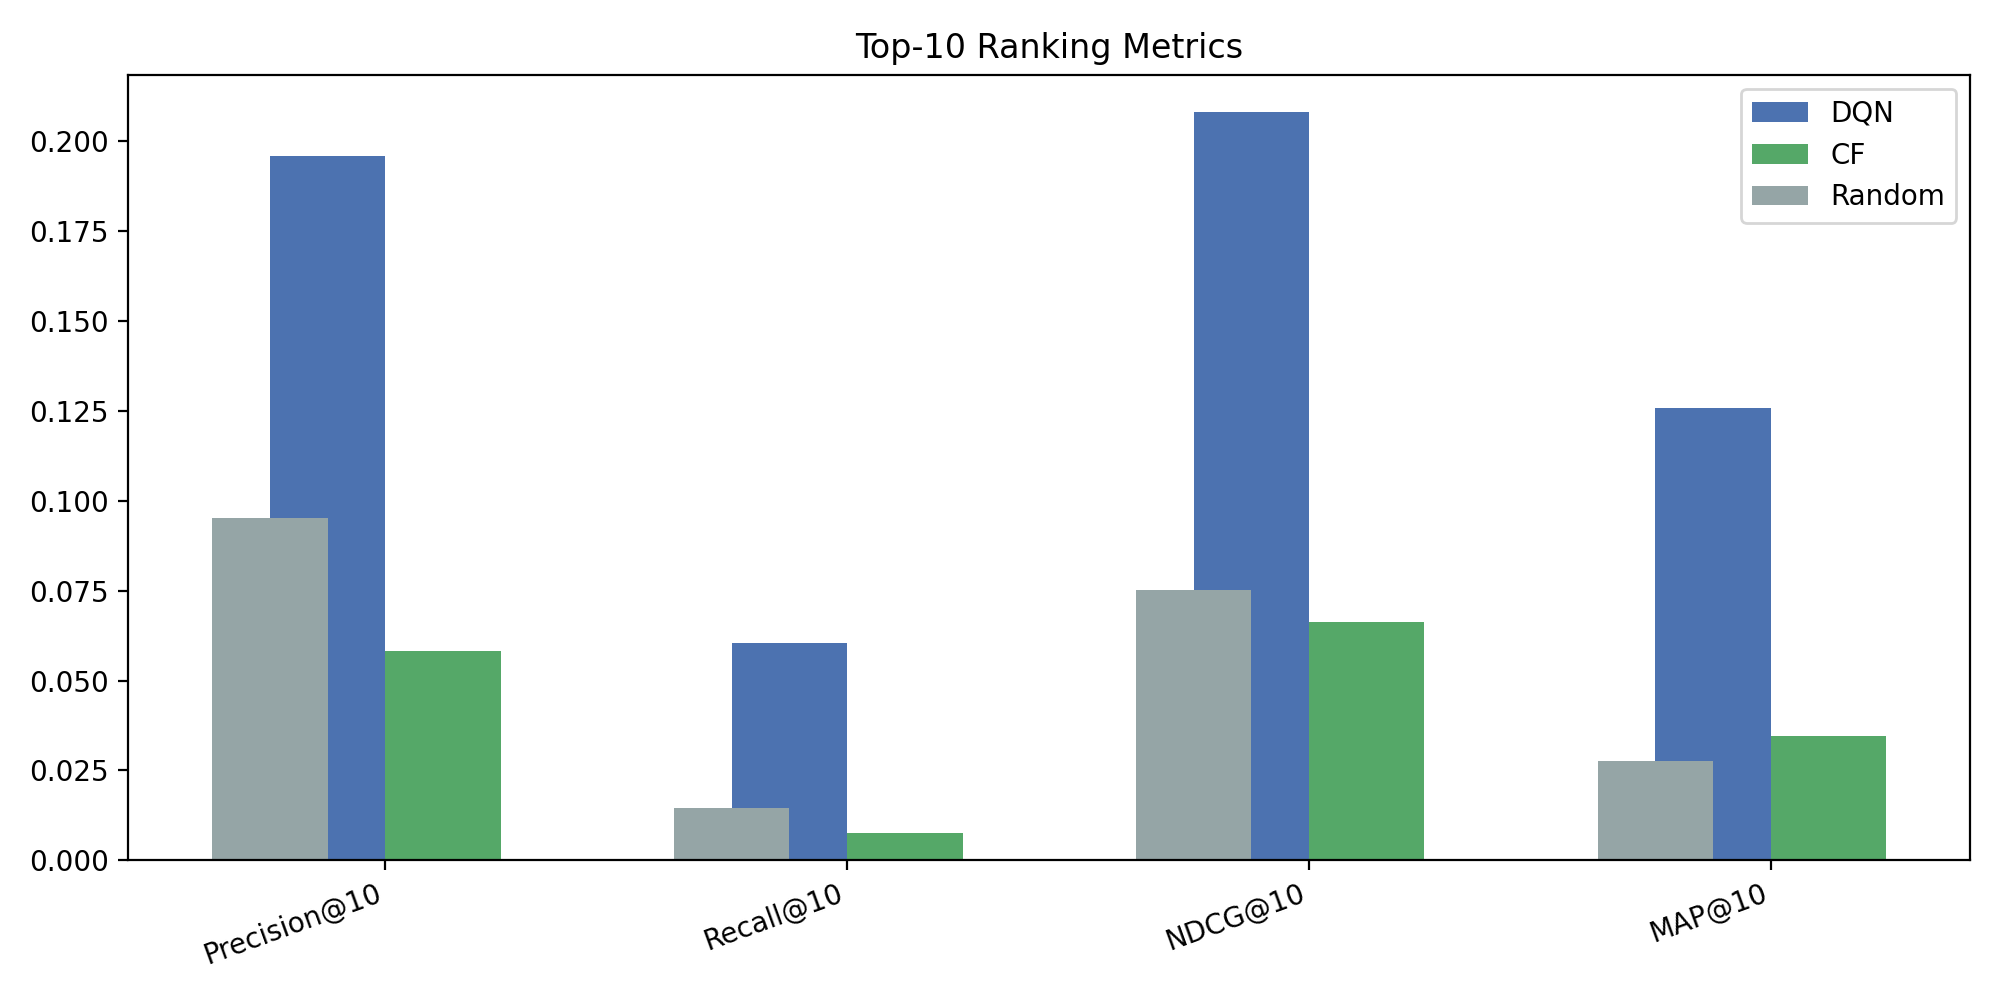
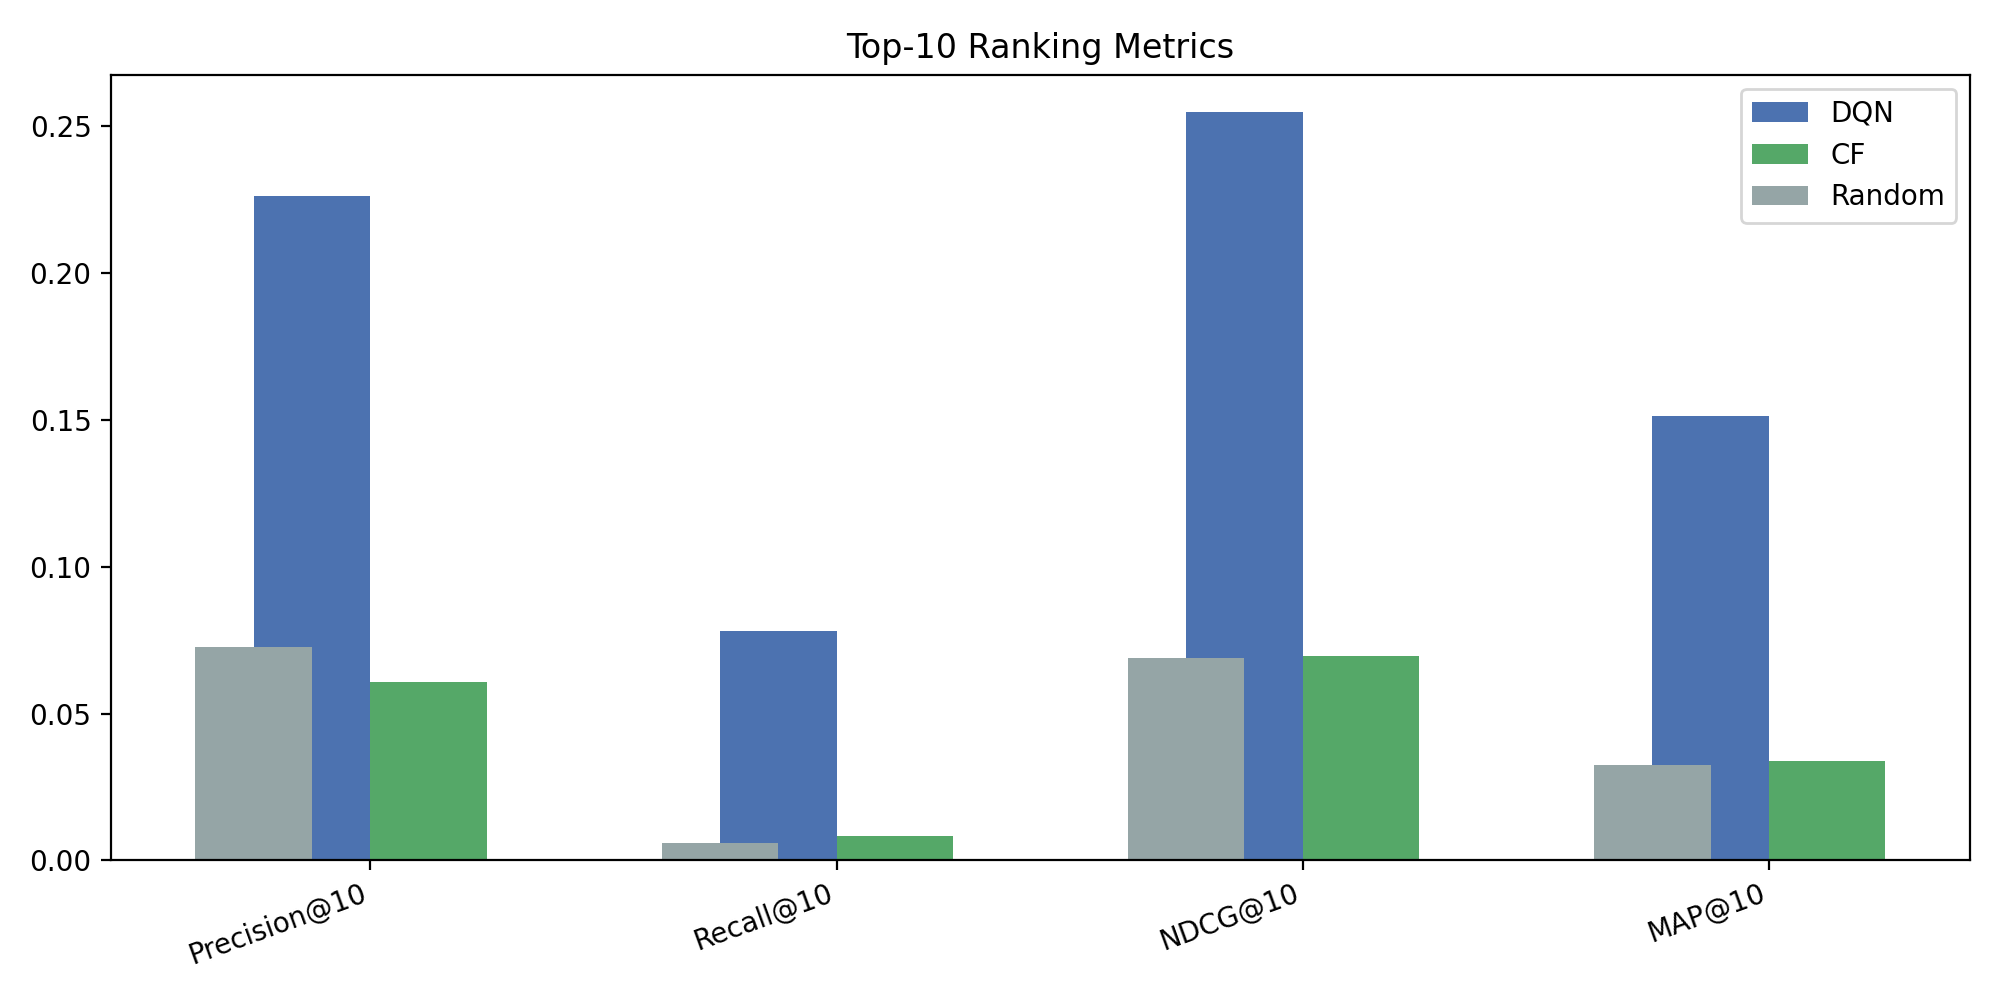
new result

diff --git a/src/utils/hyperparameters.py b/src/utils/hyperparameters.py
@@ -15,7 +15,7 @@ class Hyperparameters:
         
         # --- MODEL CONFIGURATION ---
         # Architecture options: "MLP" (Standard), "Dueling", "GRU"
-        self.model_arch = "GRU" 
+        self.model_arch =  "MLP" 
         
         # Algorithm variant: True = DDQN, False = DQN
         self.use_double_q = True
@@ -29,10 +29,10 @@ class Hyperparameters:
         
         # --- PHASE 1: BASE TRAINING ---
         self.buffer_size = 100_000
-        self.batch_size = 512
-        self.learning_rate = 1e-4      
-        self.gamma = 0.7
-        self.target_update = 500
+        self.batch_size = 256
+        self.learning_rate = 3e-4      
+        self.gamma = 0.9
+        self.target_update = 1000
         self.base_n_updates = 10000
         self.log_interval = 500
         self.weight_decay = 1e-5
